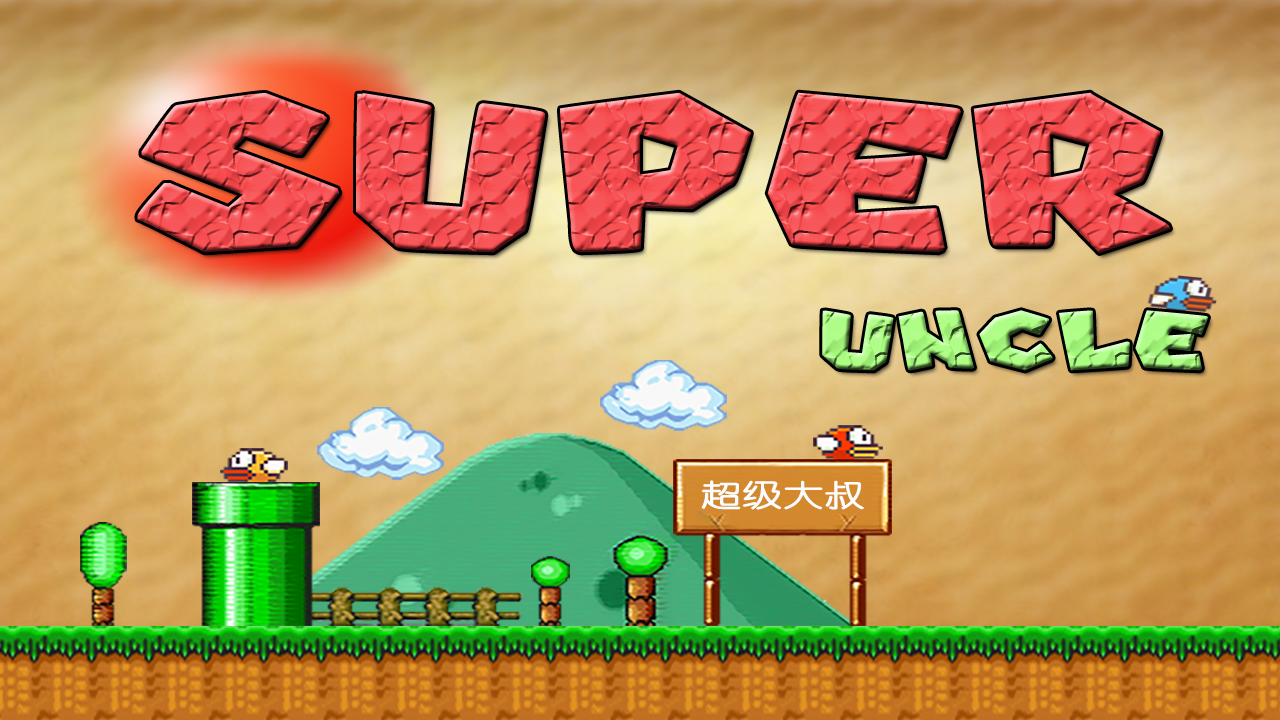
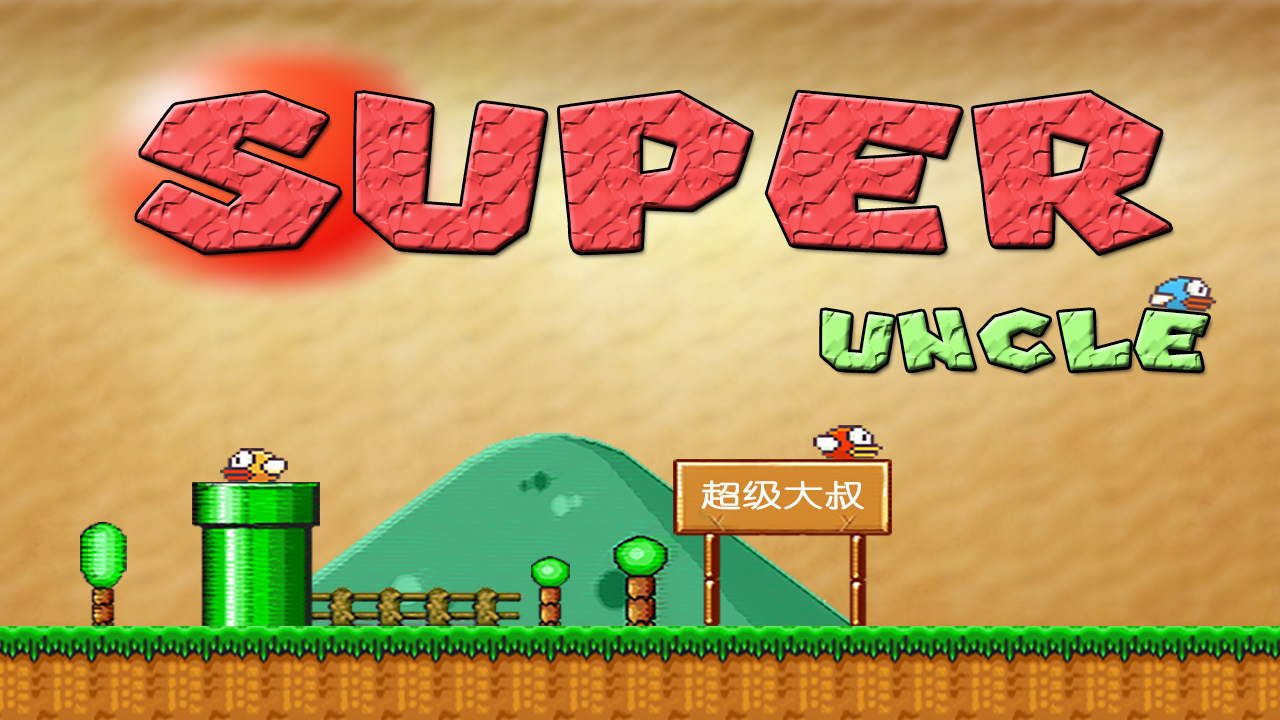
title Scene dynamic clouds

Changed region(s): [[0.4688, 0.4889, 0.5938, 0.6111], [0.25, 0.55, 0.3438, 0.6722]]

diff --git a/Scripts/AnimationPlayer.cs b/Scripts/AnimationPlayer.cs
@@ -1,0 +1,53 @@
+using System.Collections;
+using System.Collections.Generic;
+using UnityEngine.UI;
+using UnityEngine;
+
+public class AnimationPlayer : MonoBehaviour
+{
+    public List<Sprite> AnimationFrames;
+    public int FramesIdx;
+    public int RepeatIdx;  //二次循环起始图
+    public float ScheduleUpdate;
+    public float CurrentTime;
+    public float DeltaTime;
+    public bool autoPlay;
+
+    // Use this for initialization
+    void Start()
+    {
+
+    }
+
+    // Update is called once per frame
+    void Update()
+    {
+        if (autoPlay == true)
+        {
+            play();
+        }
+    }
+
+    public void play()
+    {
+        CurrentTime = Time.time;
+
+        if (CurrentTime - ScheduleUpdate > DeltaTime)
+        {
+            ScheduleUpdate = Time.time;
+
+            this.GetComponent<Image>().sprite = AnimationFrames[FramesIdx];
+
+            if (FramesIdx < AnimationFrames.Count - 1)
+            {
+                ++FramesIdx;
+            }
+            else
+            {
+                FramesIdx = RepeatIdx;
+            }
+        }
+
+    }
+
+}
